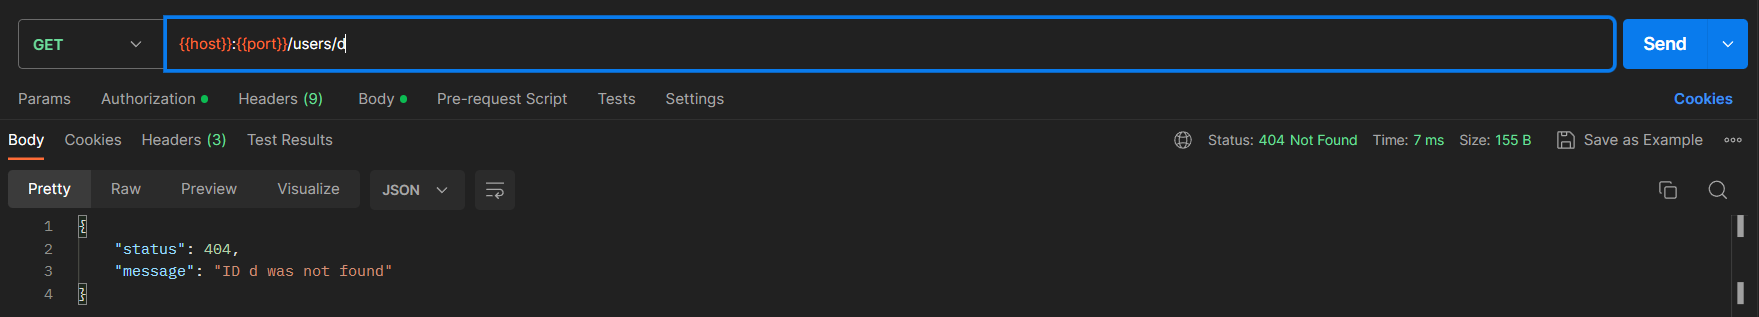
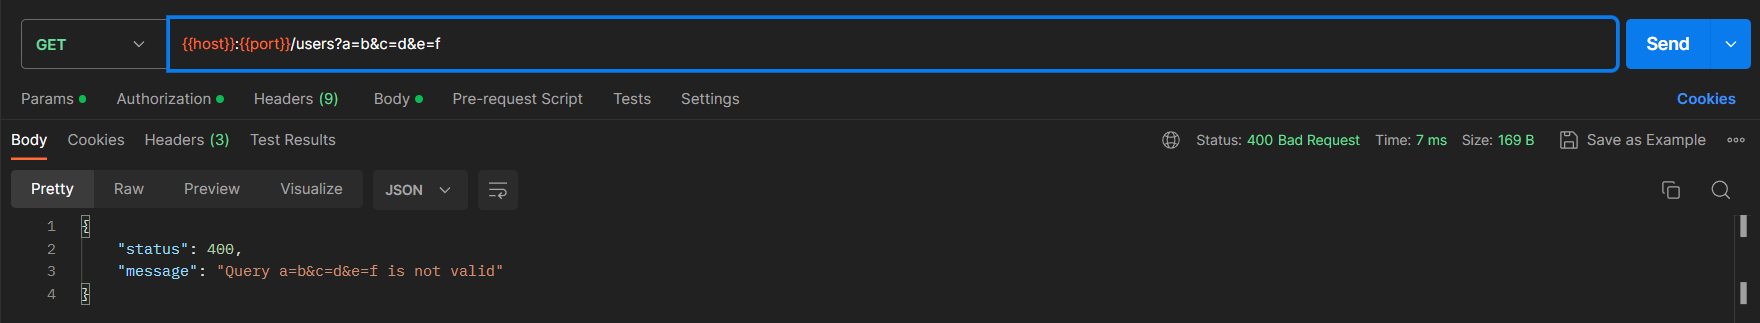
Menambahkan batasan program

diff --git a/README.md b/README.md
@@ -9,6 +9,7 @@ Oleh Bayu Rizky Kurnia Pratama - 2205551070
     -   [Pengenalan](#pengenalan)
     -   [Alat](#alat)
     -   [Prasyarat](#prasyarat)
+    -   [Batasan Program](#batasan-program)
     -   [Penggunaan](#penggunaan)
         -   [Persiapan](#persiapan)
         -   [Otorisasi](#otorisasi)
@@ -57,6 +58,37 @@ Adapun prasyarat untuk menjalankan program ini adalah sebagai berikut:
 -   Dotenv Java 3.0.0
 
 [Download Dotenv Java](https://github.com/cdimascio/dotenv-java)
+
+## Batasan Program
+
+-   Hanya _request method_ GET, POST, PUT, dan DELETE yang dizinkan.
+
+![Request method not allowed](img/Validate-1.png "Request method not allowed")
+
+-   Tidak diperkenankan kesalahan dalam penulisan nama tabel, berikut daftar tabel dengan penulisan yang tepat:
+
+```
+users
+products
+orders
+orderDetails
+addresses
+reviews
+```
+
+![Table name not found](img/Validate-2.png "Table name not found")
+
+-   ID merupakan bilangan bulat dari 1 sampai batas kolom pada tabel tertentu.
+
+![Wrong ID format](img/Validate-3.png "Wrong ID format")
+
+-   Parameter pada URL harus sesuai dengan ketentuan, untuk lebih detailnya pada [GET](#get) bagian **`localhost:8070/{table}?{params}`**
+
+![Wrong ID format](img/Validate-4.png "Wrong ID format")
+
+-   Format _request body_ yang diterima pada _request method_ POST dan PUT hanyalah JSON atau _JavaScript Object Notation_
+
+![Wrong request body format](img/Validate-5.png "Wrong request body format")
 
 ## Penggunaan
 
